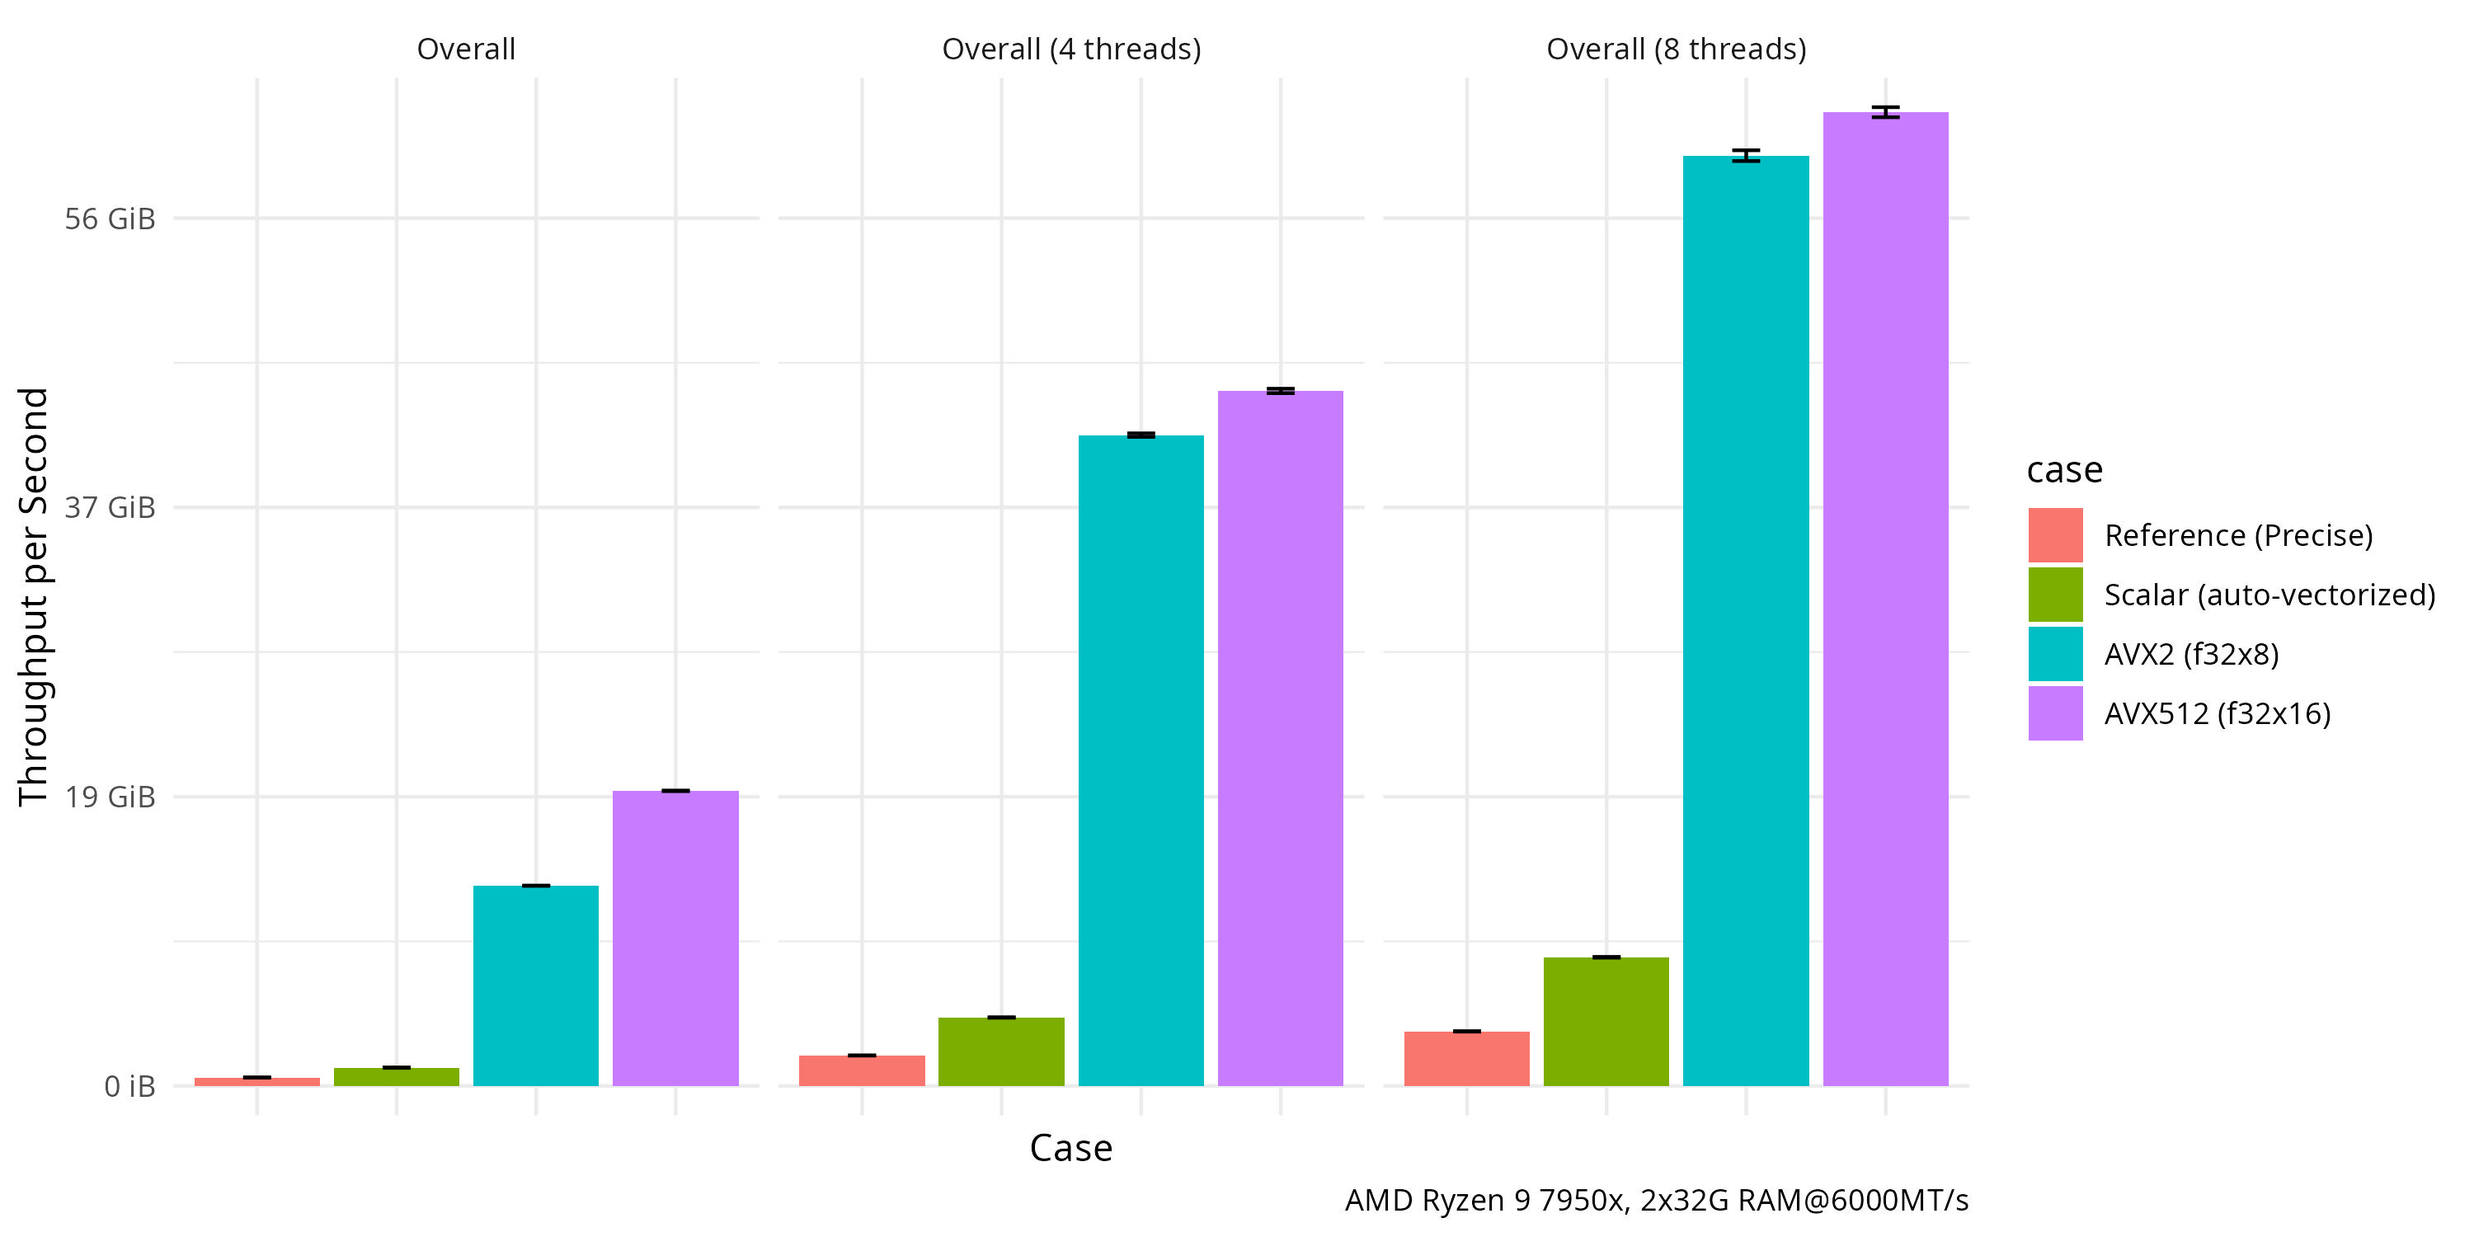
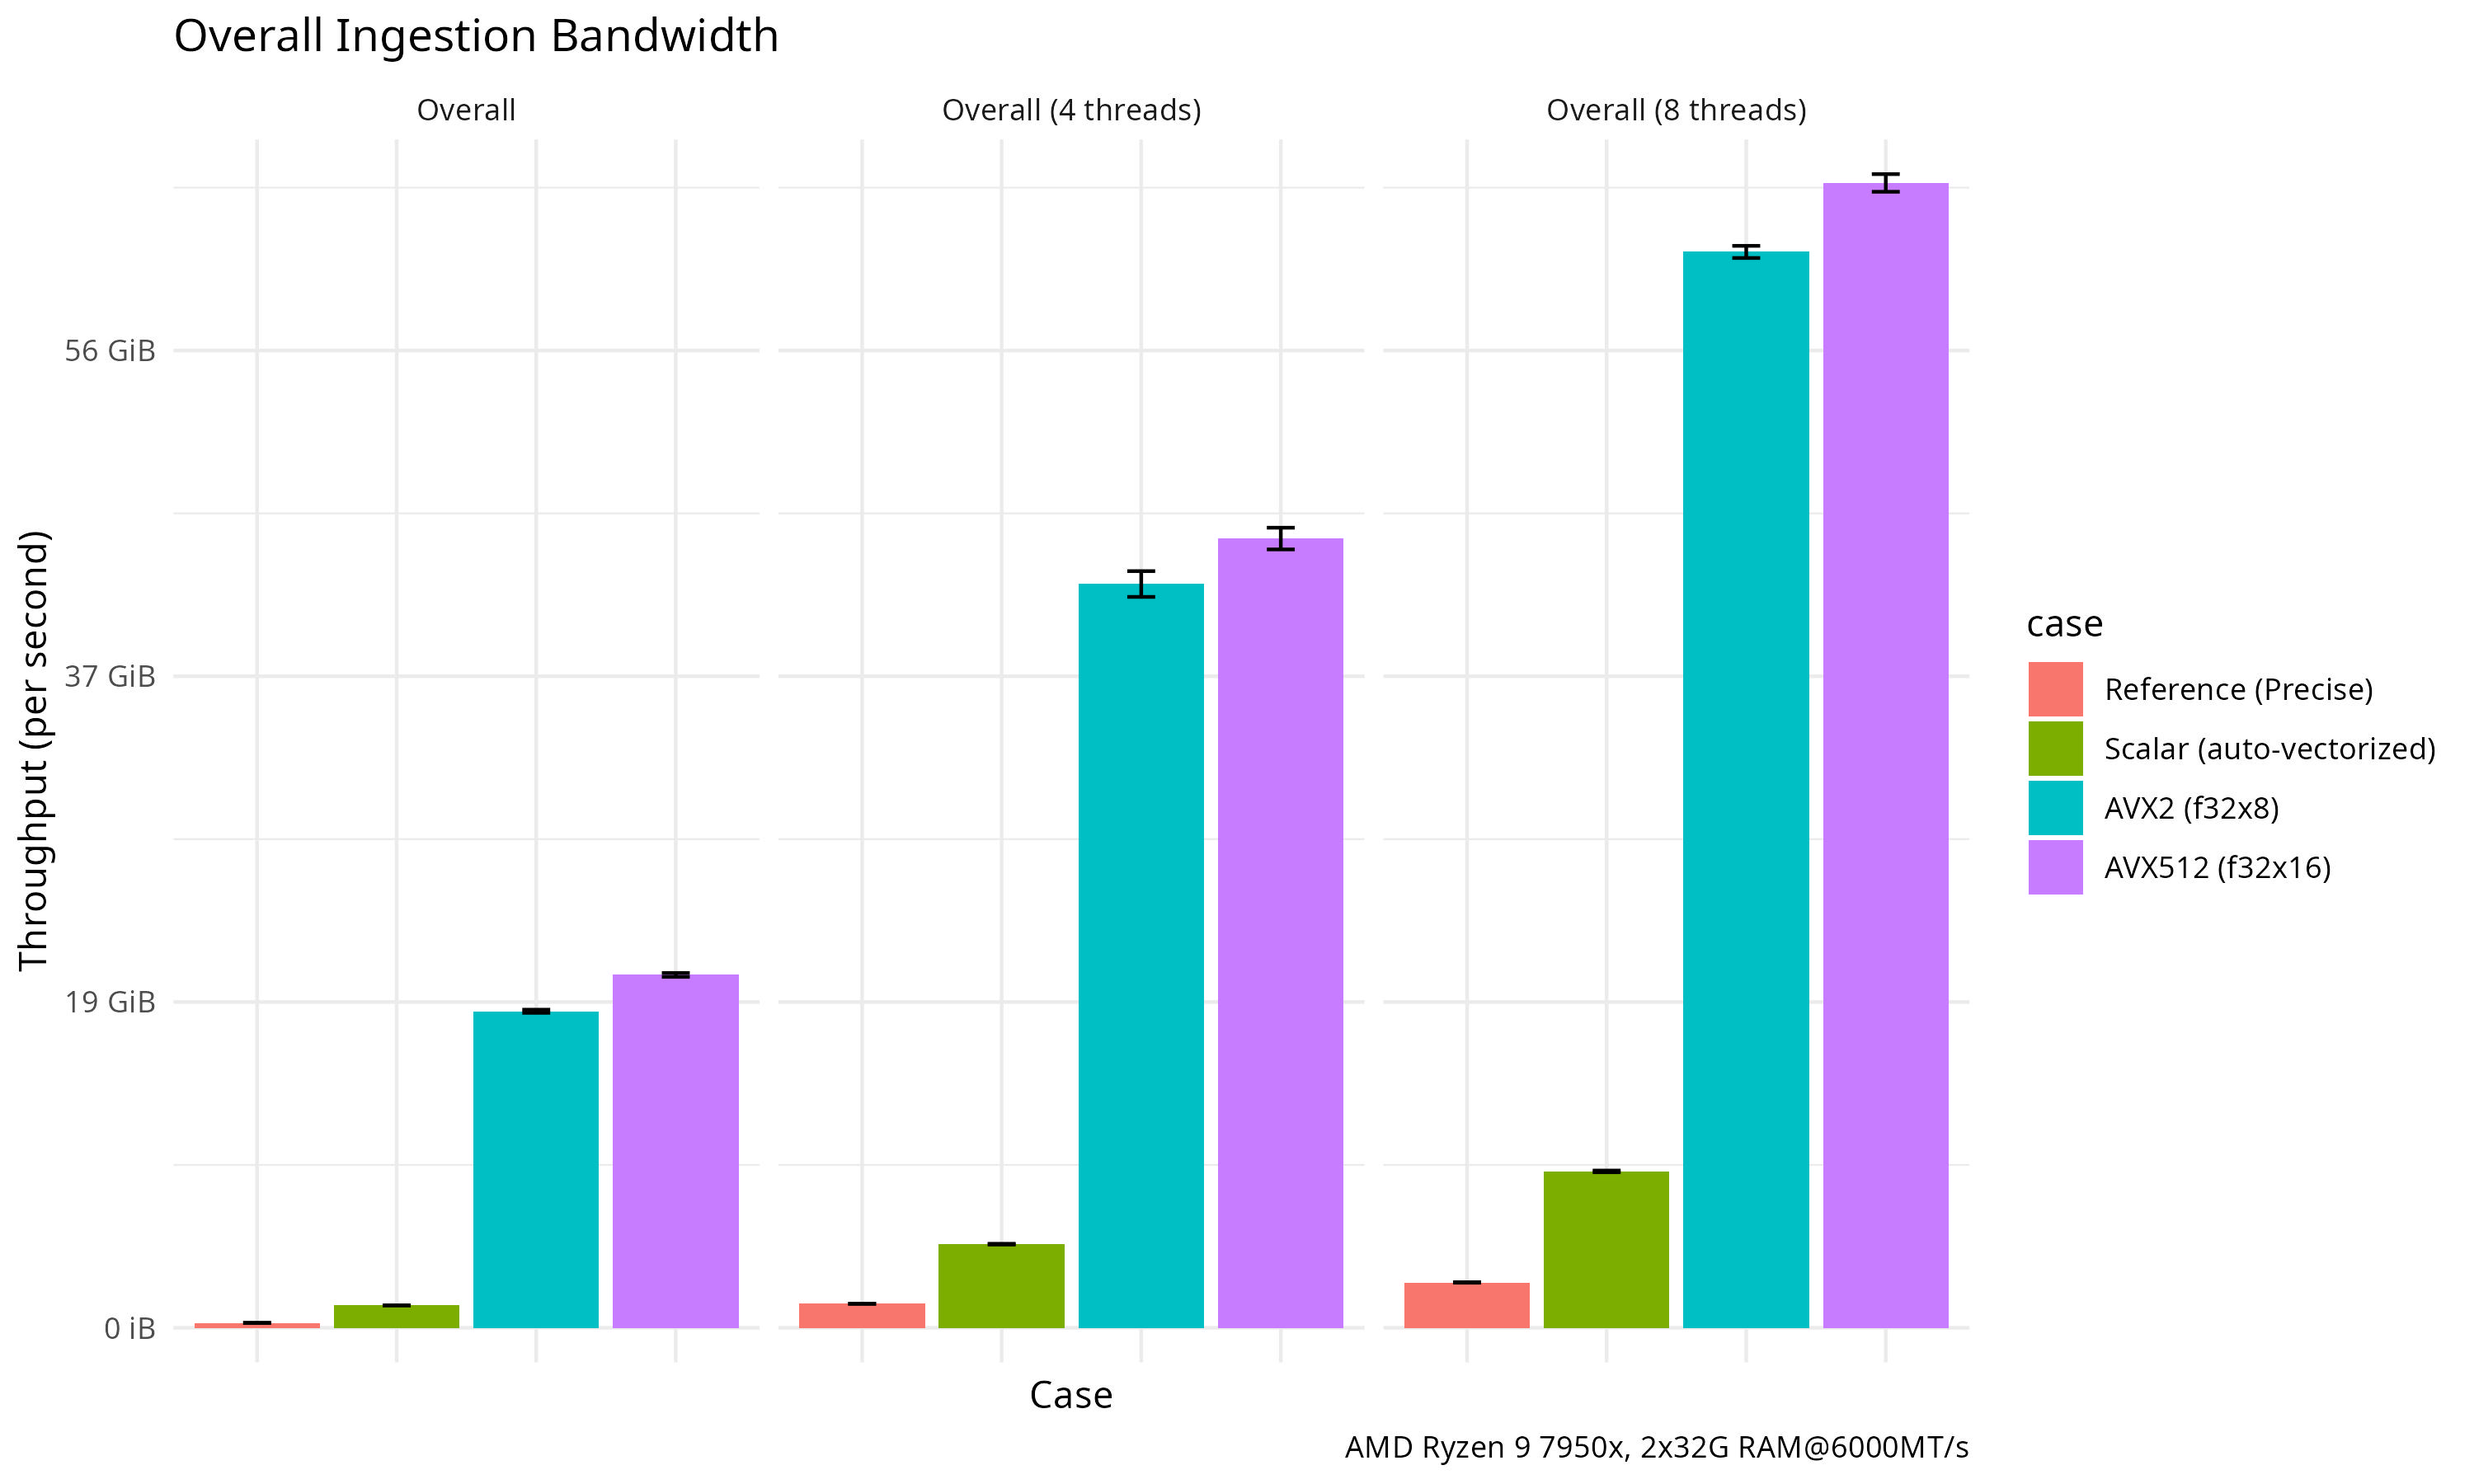
updated benchmark

diff --git a/benches/pdq.rs b/benches/pdq.rs
@@ -264,6 +264,51 @@ fn bench_hash_flip8(c: &mut Criterion) {
             input
         });
     });
+
+    group.bench_function("avx2", |b| {
+        let mut input = [0; 2 * 16];
+        rng.fill(&mut input);
+        b.iter(|| {
+            hash_hflip(&mut input);
+            black_box(&input);
+            hash_vflip(&mut input);
+            black_box(&input);
+            hash_hflip(&mut input);
+            black_box(&input);
+            hash_diagflip(&mut input);
+            black_box(&input);
+            hash_hflip(&mut input);
+            black_box(&input);
+            hash_vflip(&mut input);
+            black_box(&input);
+            hash_hflip(&mut input);
+            black_box(&input);
+            input
+        });
+    });
+
+    #[cfg(feature = "avx512")]
+    group.bench_function("avx512", |b| {
+        let mut input = [0; 2 * 16];
+        rng.fill(&mut input);
+        b.iter(|| {
+            hash_hflip(&mut input);
+            black_box(&input);
+            hash_vflip(&mut input);
+            black_box(&input);
+            hash_hflip(&mut input);
+            black_box(&input);
+            hash_diagflip(&mut input);
+            black_box(&input);
+            hash_hflip(&mut input);
+            black_box(&input);
+            hash_vflip(&mut input);
+            black_box(&input);
+            hash_hflip(&mut input);
+            black_box(&input);
+            input
+        });
+    });
 }
 
 fn bench_hash(c: &mut Criterion) {

diff --git a/src/lib.rs b/src/lib.rs
@@ -160,7 +160,7 @@ mod tests {
             let mut buf1 = Box::default();
             let mut buf1a = Box::default();
             let mut buf2 = Box::default();
-            let quality = hash(
+            hash(
                 kernel,
                 input_image.as_slice().try_into().unwrap(),
                 &mut output,
@@ -190,7 +190,6 @@ mod tests {
                 16 * 16,
                 quality_ref
             );
-            assert!(distance <= 31);
         }
     }
 

diff --git a/README.md b/README.md
@@ -20,9 +20,11 @@ No-std support.
 
 Generated by criterion on an AMD Ryzen 9 7950X (Zen 4) with two 32GiB DDR5 6000MT/s RAM, empty cells below means there are no hand-tuned implementation for that operation.
 
-![Benchmark overall](bench-plot/overall.jpg)
+|                                                             |                                                 |
+| ----------------------------------------------------------- | ----------------------------------------------- |
+| ![Benchmark overall operations](bench-plot/overall_ops.jpg) | ![Benchmark overall](bench-plot/overall.jpg)    |
+| ![Benchmark sub-operations](bench-plot/sub.jpg)             | ![Benchmark hash-flipping](bench-plot/flip.jpg) |
 
-![Benchmark sub-operations](bench-plot/sub.jpg)
 
 
 ## Accuracy on test set
